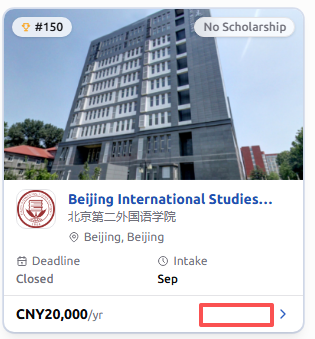
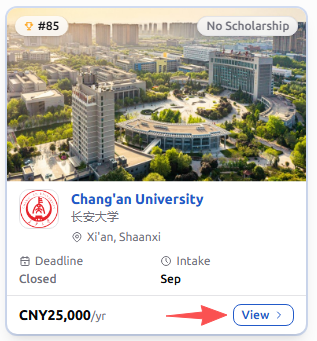
style(ui): make university card View button blue

diff --git a/src/app/(public)/universities/page.tsx b/src/app/(public)/universities/page.tsx
@@ -291,7 +291,7 @@ function UniversityCard({ university }: { university: University }) {
               <span className="text-[10px] sm:text-xs text-muted-foreground">Tuition on request</span>
             )}
           </div>
-          <span className="inline-flex items-center gap-1 rounded-md border px-2 py-0.5 text-[10px] sm:text-xs font-medium text-muted-foreground group-hover:border-primary group-hover:text-primary transition-colors">
+          <span className="inline-flex items-center gap-1 rounded-md border border-blue-500 px-2 py-0.5 text-[10px] sm:text-xs font-medium text-blue-600 group-hover:bg-blue-500 group-hover:text-white transition-colors">
             View
             <IconChevronRight className="h-3 w-3" />
           </span>
